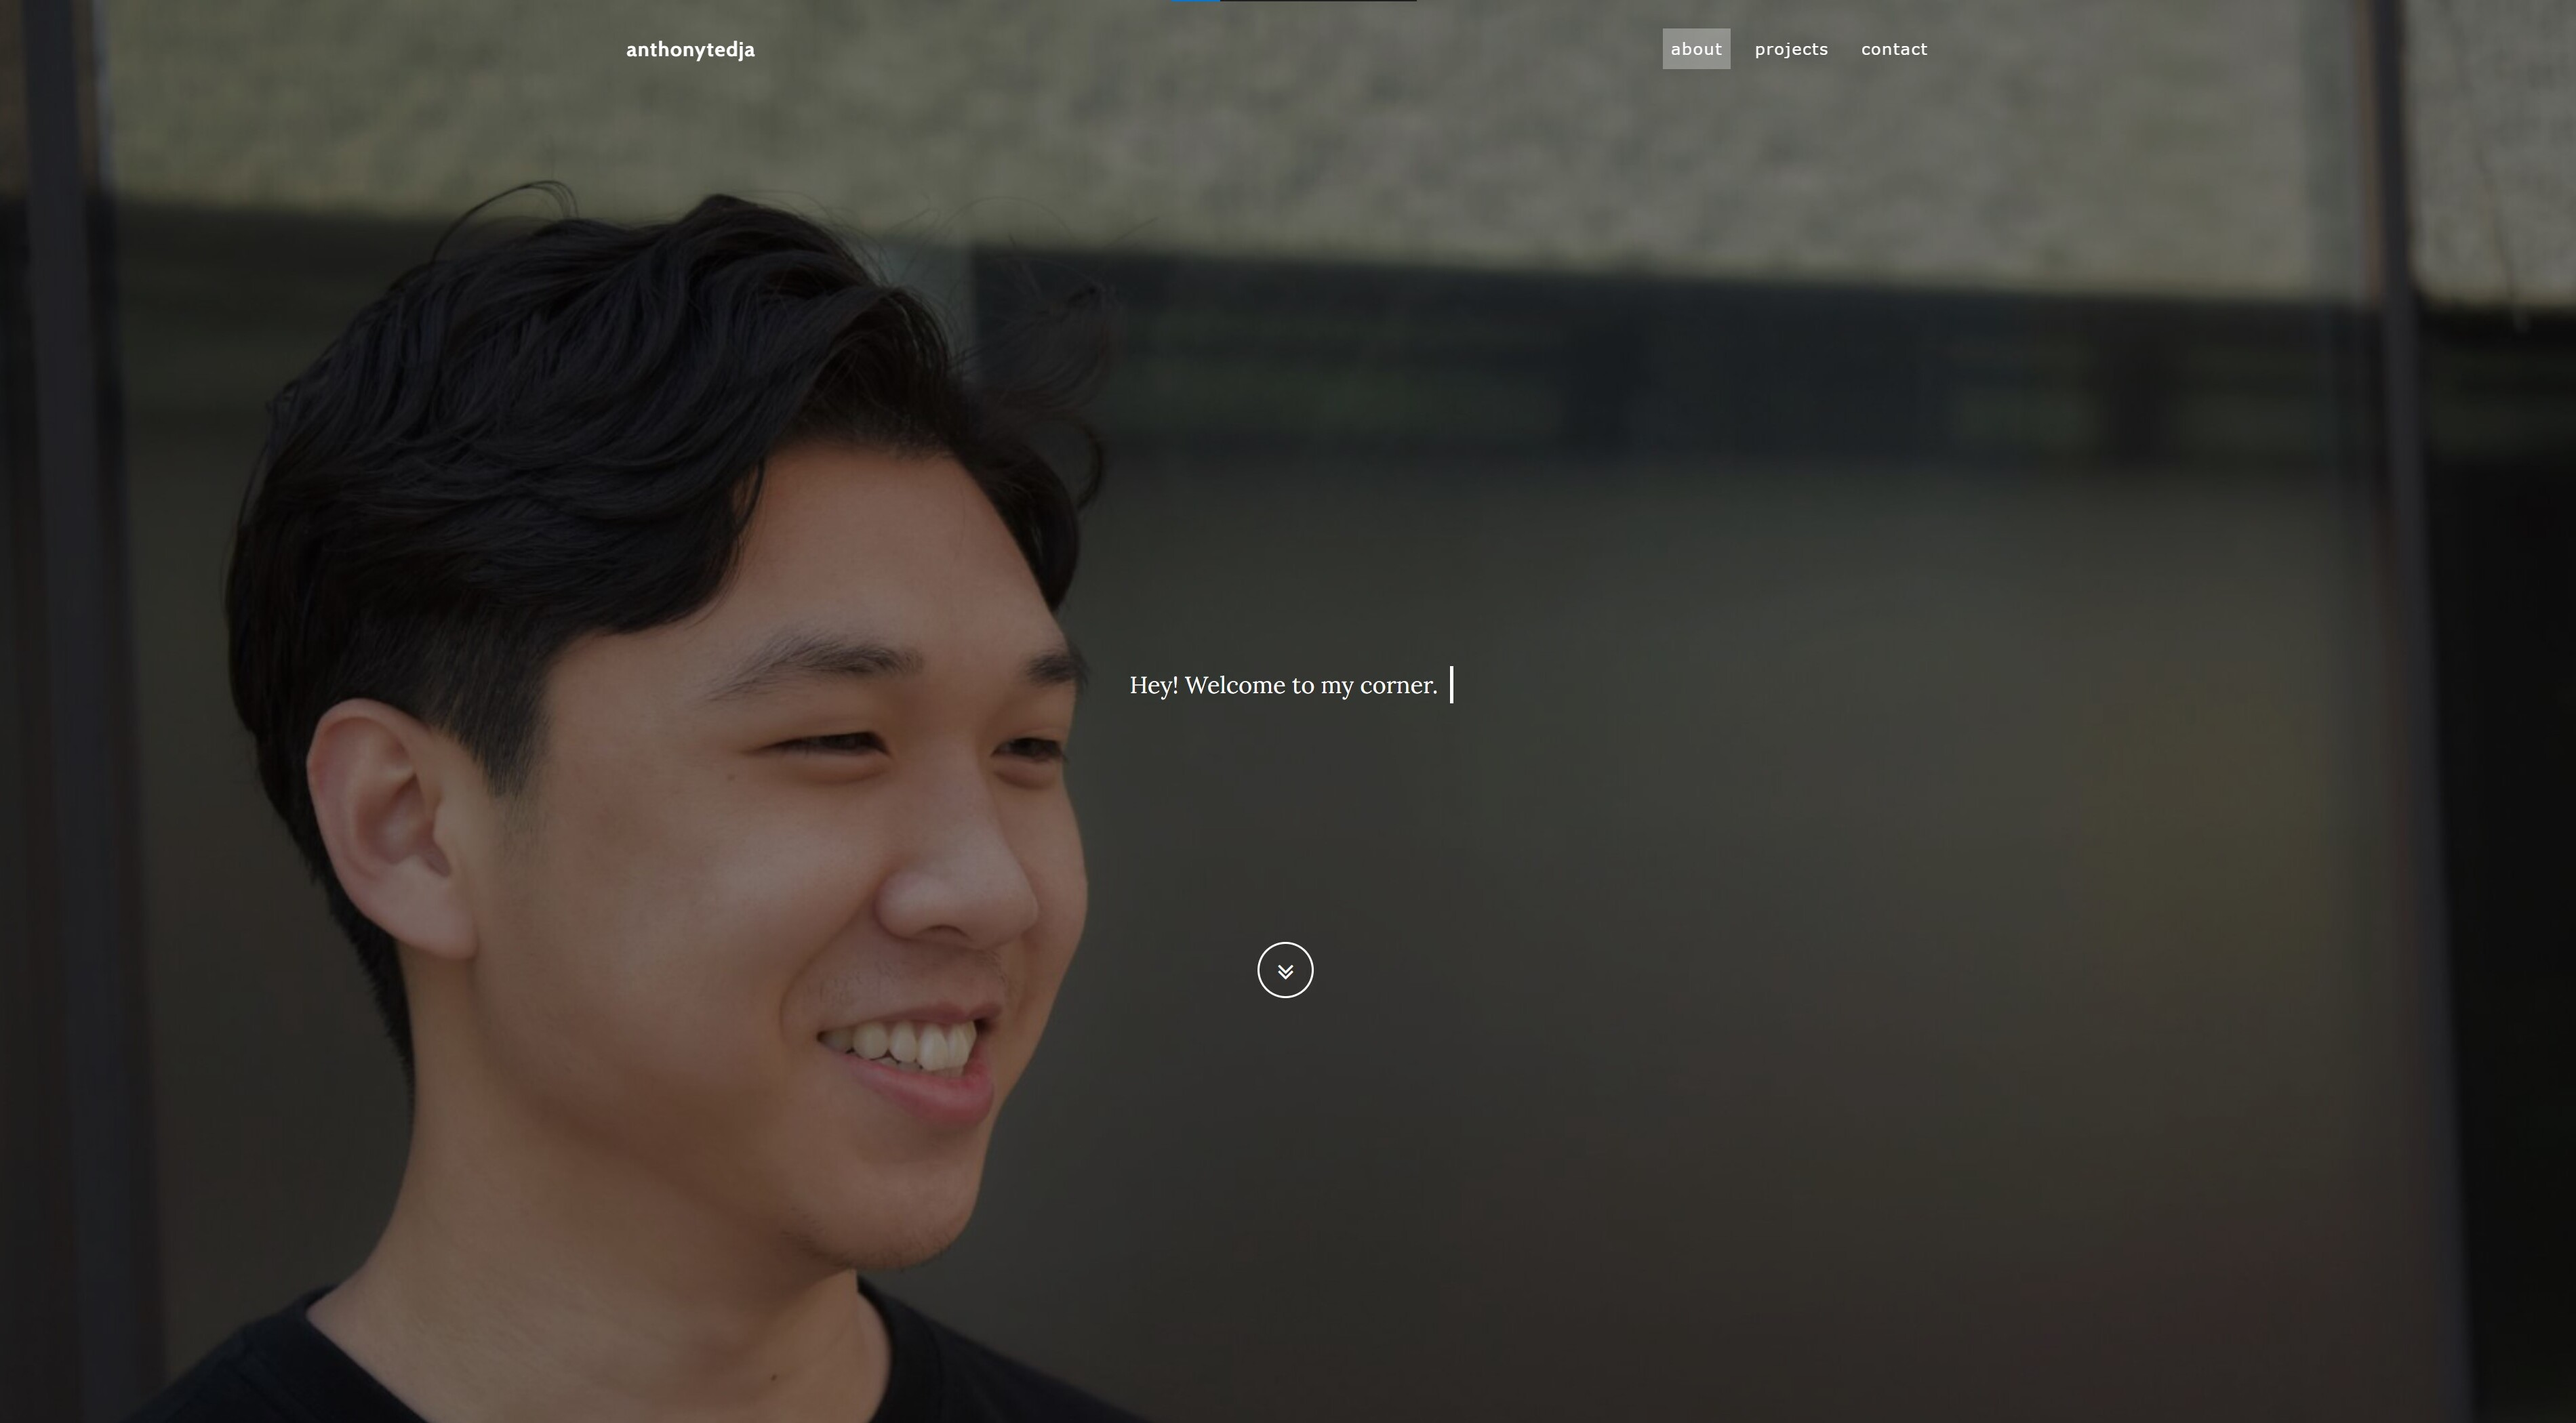
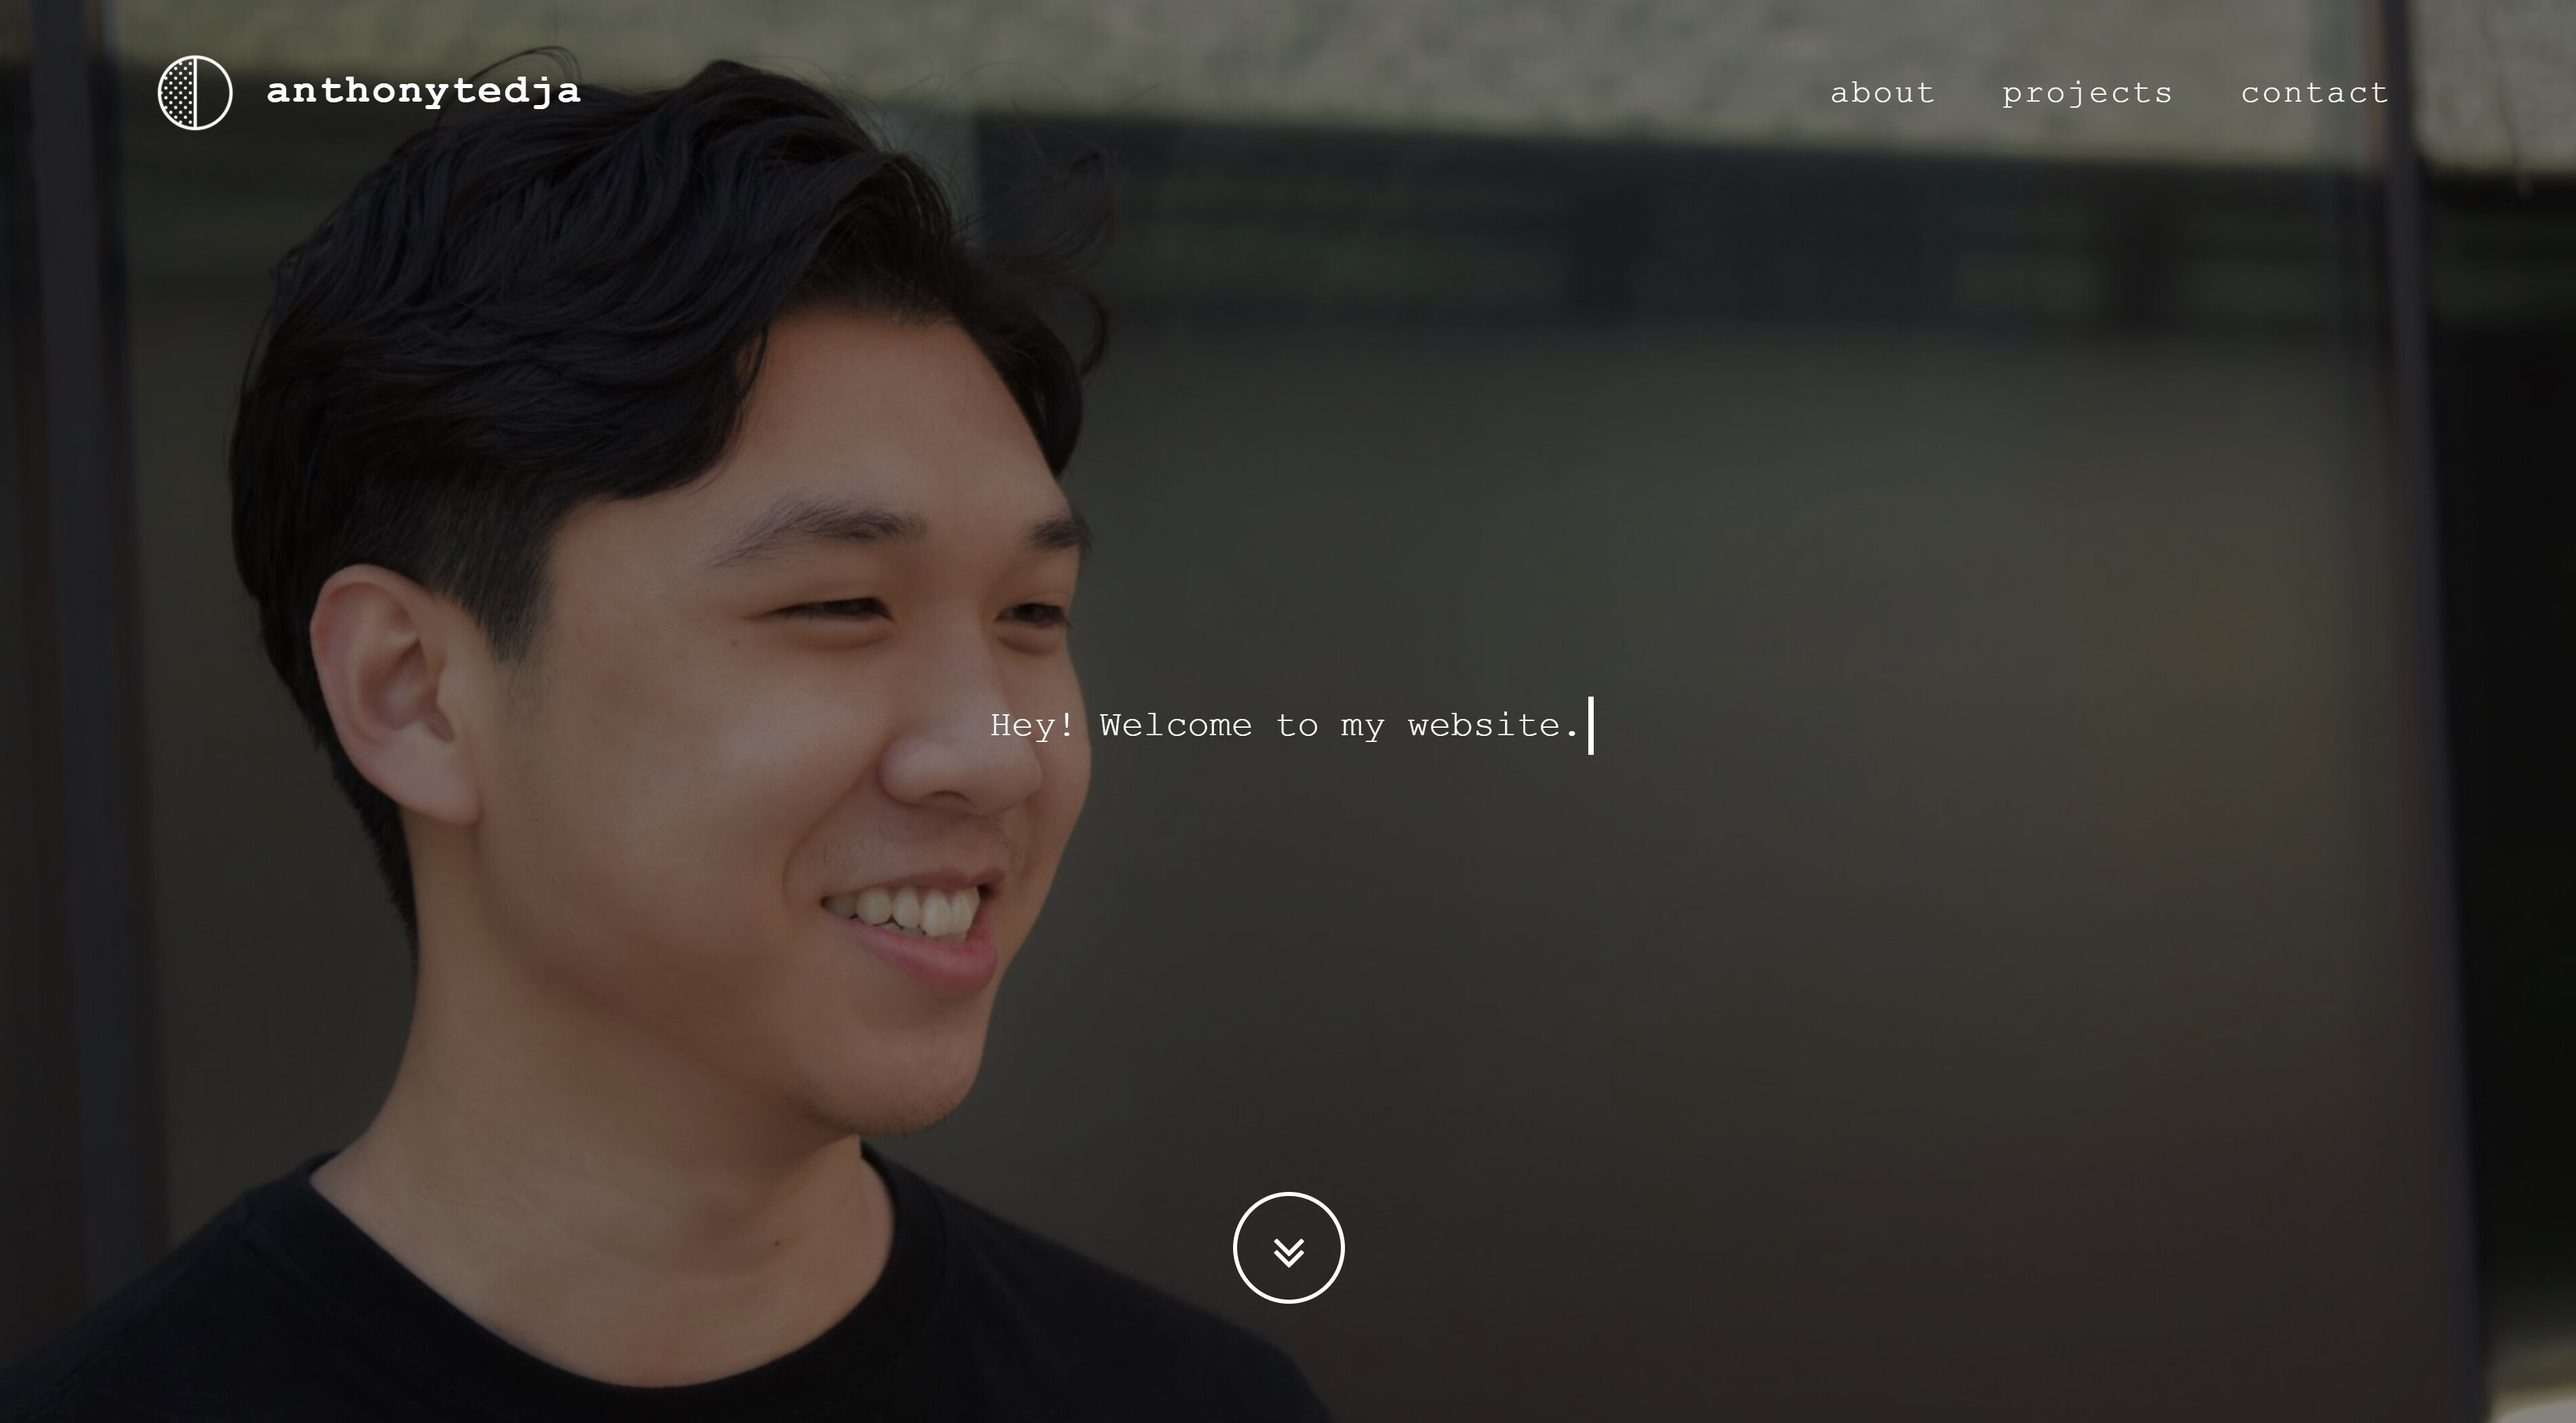
Add Projects

diff --git a/index.html b/index.html
@@ -3,28 +3,31 @@
 
 <head>
     <meta charset="utf-8">
+<title>Anthony Tedja</title>
+<link rel="icon" href="https://img.icons8.com/ios/250/FFFFFF/contrast.png">
+<meta name="image" property="og:image" content="assets/img/preview.jpg"/>
     <meta name="viewport" content="width=device-width, initial-scale=1.0, shrink-to-fit=no">
-    <title>Anthony Tedja</title>
-    <link rel="icon" href="https://img.icons8.com/ios/250/FFFFFF/contrast.png">
+    <title>Home - Brand</title>
+    <meta name="" content="">
     <link rel="stylesheet" href="assets/bootstrap/css/bootstrap.min.css">
     <link rel="stylesheet" href="https://fonts.googleapis.com/css?family=Lora:400,700,400italic,700italic">
     <link rel="stylesheet" href="https://fonts.googleapis.com/css?family=Cabin:700">
     <link rel="stylesheet" href="assets/fonts/font-awesome.min.css">
     <link rel="stylesheet" href="assets/fonts/ionicons.min.css">
+    <link rel="stylesheet" href="assets/css/Features-Boxed.css">
     <link rel="stylesheet" href="assets/css/Footer-Dark.css">
     <link rel="stylesheet" href="assets/css/Projects-Horizontal.css">
-    <link rel="stylesheet" href="assets/css/Social-Icons.css">
     <link rel="stylesheet" href="assets/css/untitled.css">
 </head>
 
 <body id="page-top" data-bs-spy="scroll" data-bs-target="#mainNav" data-bs-offset="77">
     <nav class="navbar navbar-light navbar-expand-md fixed-top" id="mainNav" style="/*background-color: var(--bs-gray-800);*//*background: transparent;*/">
-        <div class="container"><a class="navbar-brand" href="#" style="text-transform: lowercase;">anthonytedja</a><button data-bs-toggle="collapse" class="navbar-toggler navbar-toggler-right" data-bs-target="#navbarResponsive" type="button" aria-controls="navbarResponsive" aria-expanded="false" aria-label="Toggle navigation" value="Menu"><i class="fa fa-bars"></i></button>
+        <div class="container"><a class="navbar-brand" href="#" style="text-transform: lowercase;"><img id="logo" src="assets/img/icon.png">anthonytedja</a><button data-bs-toggle="collapse" class="navbar-toggler navbar-toggler-right" data-bs-target="#navbarResponsive" type="button" aria-controls="navbarResponsive" aria-expanded="false" aria-label="Toggle navigation" value="Menu"><i class="fa fa-bars"></i></button>
             <div class="collapse navbar-collapse" id="navbarResponsive">
                 <ul class="navbar-nav ms-auto">
-                    <li class="nav-item nav-link"><a class="nav-link active" href="#about" style="font-family: &quot;Verdana&quot;, sans-serif;text-transform: lowercase;">About</a></li>
-                    <li class="nav-item nav-link"><a class="nav-link" href="#download" style="font-family: &quot;Verdana&quot;, sans-serif;text-transform: lowercase;">projects</a></li>
-                    <li class="nav-item nav-link"><a class="nav-link" href="#contact" style="font-family: &quot;Verdana&quot;, sans-serif;text-transform: lowercase;">contact</a></li>
+                    <li class="nav-item nav-link"><a class="nav-link active" href="#about" style="text-transform: lowercase;">About</a></li>
+                    <li class="nav-item nav-link"><a class="nav-link" href="#download" style="text-transform: lowercase;">projects</a></li>
+                    <li class="nav-item nav-link"><a class="nav-link" href="#contact" style="text-transform: lowercase;">contact</a></li>
                 </ul>
             </div>
         </div>
@@ -35,7 +38,7 @@
                 <div class="row">
                     <div class="col-lg-8 mx-auto" style="height: 100px;">
                         <h3 class="brand-heading"></h3>
-                        <p class="intro-text" style="overflow: hidden;border-right: .15em solid transparent;white-space: nowrap;margin: 0 auto;animation: typing 2.5s steps(40, end), blink-caret 1s step-end infinite;width: 330px;font-size: 23px;">Hey! Welcome to my corner.</p><a class="btn btn-link btn-circle" role="button" href="#about" style="transform: translateY(220px);-webkit-animation: fadein 2s;-moz-animation: fadein 2s;-ms-animation: fadein 2s;animation: fadein 2s;"><i class="fa fa-angle-double-down animated"></i></a>
+                        <p class="intro-text" style="font-family: &quot;Courier New&quot;, monospace;overflow: hidden;border-right: .15em solid transparent;white-space: nowrap;margin: 0 auto;animation: typing 2.5s steps(40, end), blink-caret 1s step-end infinite;width: 300px;font-size: 18px;">Hey! Welcome to my website.</p><a class="btn btn-link btn-circle" role="button" href="#about" style="transform: translateY(200px);-webkit-animation: fadein 2s;-moz-animation: fadein 2s;-ms-animation: fadein 2s;animation: fadein 2s;"><i class="fa fa-angle-double-down animated"></i></a>
                     </div>
                 </div>
             </div>
@@ -47,7 +50,7 @@
                 <div class="col-lg-8 mx-auto" style="color: #8892b0;">
                     <h2 style="color: #ccd6f6;">About</h2>
                     <p>Hey, I'm Anthony, a third year <strong>Computer Science Specialist</strong> at the University of Toronto. My interests are in Algorithm Design as well as Data Structure Analysis.&nbsp;&nbsp;</p>
-                    <p>I've previously worked at <strong>Kumon </strong>as a Math and English Teachers Assistant, and was previously at the <strong>Ontario Conservatory of Music</strong> as a Music Teacher.</p>
+                    <p>I've previously worked at <strong>Kumon </strong>as a Math and English Teacher Assistant, and was previously at the <strong>Ontario Conservatory of Music</strong> as a Music Teacher.</p>
                     <p>Outside of Academics, I enjoy playing guitar as well as taking photos for&nbsp;<a href="https://unsplash.com/@anthonytedja" style="color: #ccd6f6;"><strong>Unsplash</strong></a>. I'm most likely watching anime or playing Pokemon at the moment!</p>
                 </div>
             </div>
@@ -57,8 +60,52 @@
         <div class="container">
             <div class="row">
                 <div class="col-lg-8 mx-auto" style="color: #8892b0;">
-                    <h2 style="color: #ccd6f6;">Projects</h2>
-                    <p>Checkout my&nbsp;<a href="https://github.com/anthonytedja" style="color: #ccd6f6;"><strong>Github</strong></a>&nbsp;for some of my public projects.</p>
+                    <section class="features-boxed">
+                        <div class="container" style="background-color: #0b0c10;">
+                            <div class="intro">
+                                <h2 style="color: #ccd6f6;">Projects</h2>
+                            </div>
+                            <div class="row justify-content-center features">
+                                <div class="col-sm-6 col-md-5 col-lg-4 item">
+                                    <div class="box"><a href="https://github.com/anthonytedja/mips" target="_blank"><i class="icon ion-social-github" style="color: #59dcd4;"></i></a>
+                                        <h3 class="name">Mips Discord Bot</h3>
+                                        <p class="description">mips is a small discord bot that&nbsp;decompiles binary code into MIPS architecture assembly instructions<br></p>
+                                    </div>
+                                </div>
+                                <div class="col-sm-6 col-md-5 col-lg-4 item">
+                                    <div class="box"><a href="https://github.com/anthonytedja/notion" target="_blank"><i class="icon ion-social-github" style="color: #59dcd4;"></i></a>
+                                        <h3 class="name">Notion Widgets</h3>
+                                        <p class="description">notion hosts a range of widgets like weather and clock widgets in light and dark mode for Notion page embeds<br></p>
+                                    </div>
+                                </div>
+                                <div class="col-sm-6 col-md-5 col-lg-4 item">
+                                    <div class="box"><i class="icon ion-android-folder"></i>
+                                        <h3 class="name">Theorem Prover</h3>
+                                        <p class="description">an academic project in miniKanren Racket that implements a proof checker for implicational minimal logic<br></p>
+                                    </div>
+                                </div>
+                                <div class="col-sm-6 col-md-5 col-lg-4 item">
+                                    <div class="box"><a href="https://anthonytedja.github.io/takeout/" target="_blank"><i class="icon ion-android-open" style="color: #59dcd4;"></i></a>
+                                        <h3 class="name">Food Takeout</h3>
+                                        <p class="description">takeout is a web app that chooses restaurants at various price ranges to solve dinner fights with your girlfriend<br></p>
+                                    </div>
+                                </div>
+                                <div class="col-sm-6 col-md-5 col-lg-4 item">
+                                    <div class="box"><i class="icon ion-android-folder"></i>
+                                        <h3 class="name">File Zip<br></h3>
+                                        <p class="description">an academic project in Python that implements a lossless compression and decompression algorithm using Huffman Trees&nbsp;<br></p>
+                                    </div>
+                                </div>
+                                <div class="col-sm-6 col-md-5 col-lg-4 item">
+                                    <div class="box"><a href="https://github.com/anthonytedja/bounce" target="_blank"><i class="icon ion-social-github" style="color: #59dcd4;"></i></a>
+                                        <h3 class="name">Bounce Game</h3>
+                                        <p class="description">bounce&nbsp;is a MIPS bitmap assembly mini game driven by the MARS simulator, modelled after the popular game Doodle Jump<br></p>
+                                    </div>
+                                </div>
+                            </div>
+                        </div>
+                    </section>
+                    <p>Checkout my&nbsp;<a href="https://github.com/anthonytedja" style="color: #ccd6f6;"><strong>Github</strong></a>&nbsp;for more of my public projects.</p>
                 </div>
             </div>
         </div>

diff --git a/assets/css/Features-Boxed.css b/assets/css/Features-Boxed.css
@@ -1,0 +1,76 @@
+.features-boxed {
+  color: #ccd6f6;
+  background-color: #eef4f7;
+}
+
+.features-boxed p {
+  color: #8892b0;
+}
+
+.features-boxed h2 {
+  font-weight: bold;
+  margin-bottom: 40px;
+  padding-top: 40px;
+  color: inherit;
+}
+
+@media (max-width:767px) {
+  .features-boxed h2 {
+    margin-bottom: 25px;
+    padding-top: 25px;
+    font-size: 24px;
+  }
+}
+
+.features-boxed .intro {
+  font-size: 16px;
+  max-width: 500px;
+  margin: 0 auto;
+}
+
+.features-boxed .intro p {
+  margin-bottom: 0;
+}
+
+.features-boxed .features {
+  padding: 50px 0;
+}
+
+.features-boxed .item {
+  text-align: center;
+}
+
+.features-boxed .item .box {
+  text-align: center;
+  padding: 30px;
+  background-color: #172a45;
+  margin-bottom: 30px;
+  border-radius: 5px;
+  transition: transform 0.5s;
+}
+
+.features-boxed .item .icon {
+  font-size: 60px;
+  color: #ccd6f6;
+  margin-top: 20px;
+  margin-bottom: 35px;
+}
+
+.features-boxed .item .name {
+  font-weight: bold;
+  font-size: 18px;
+  margin-bottom: 8px;
+  margin-top: 0;
+  color: inherit;
+}
+
+.features-boxed .item .description {
+  font-size: 15px;
+  margin-top: 15px;
+  margin-bottom: 20px;
+}
+
+.box:hover {
+  transform: translate(0px, -8px);
+}
+

diff --git a/assets/css/untitled.css b/assets/css/untitled.css
@@ -3,7 +3,7 @@
     width: 0;
   }
   to {
-    width: 330px;
+    width: 300px;
   }
 }
 
@@ -73,5 +73,14 @@ a:hover {
 
 .tooltip:hover .tooltiptext {
   visibility: visible;
+}
+
+* {
+  font-family: "Courier New", monospace;
+}
+
+#logo {
+  max-height: 40px;
+  margin-right: 15px;
 }
 
